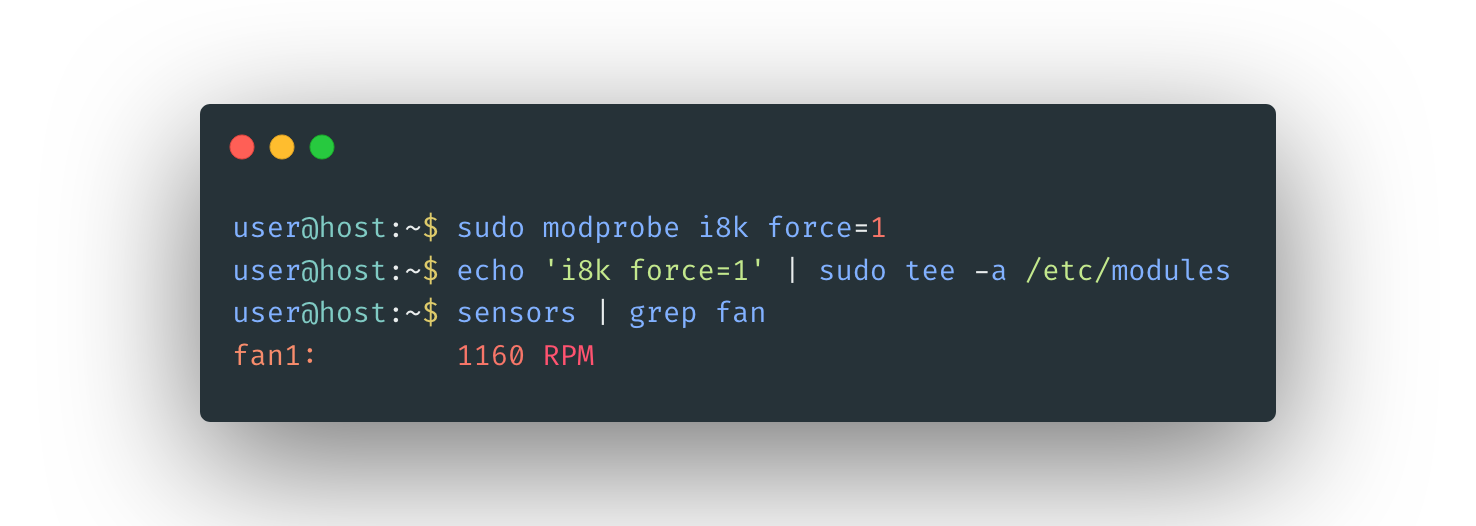
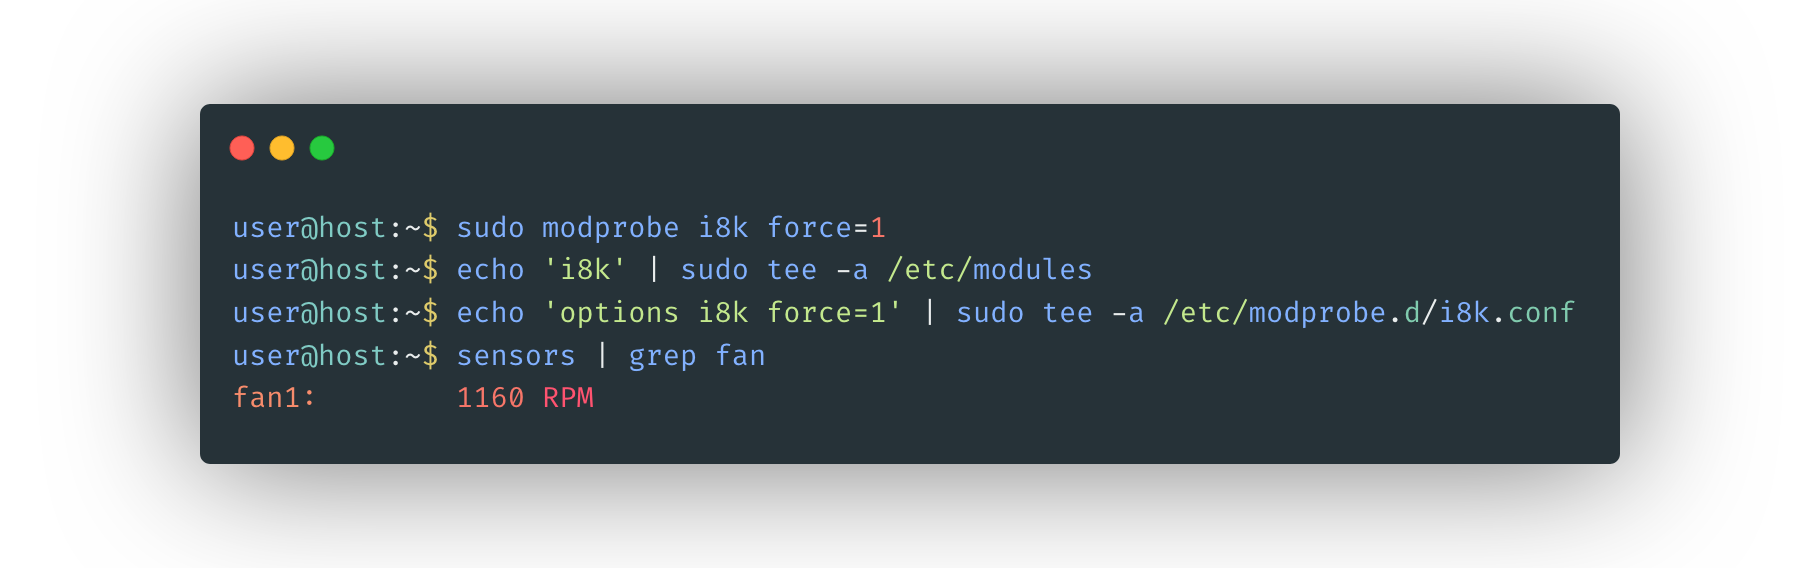
post/optiplex-fan: fix persistent i8k module config

Changed region(s): [[0.0935, 0.0913, 0.935, 0.943]]

diff --git a/content/posts/dell-optiplex-3070-5070-7070-linux-fan-speed/index.md b/content/posts/dell-optiplex-3070-5070-7070-linux-fan-speed/index.md
@@ -21,7 +21,7 @@ authors:
   - tigattack
 series: {}
 featuredImage: images/header.png
-lastmod: 2023-05-11T10:04:41.786Z
+lastmod: 2023-05-13T22:54:51.589Z
 ---
 
 {{< toc >}}
@@ -57,8 +57,13 @@ I also strongly suggest running `sudo sensors-detect`. The default choices from 
 
 For one-time usage, simply run this: `sudo modprobe i8k force=1`
 
-To always load the driver at boot time, add `i8k force=1` to `/etc/modules` and reboot to see the change.  
-You can do this simply like so: `echo 'i8k force=1' | sudo tee -a /etc/modules`
+If you wish to always load the driver at boot time, here's how:
+  1. `echo 'i8k' | sudo tee -a /etc/modules`  
+  By adding the line `i8k` to `/etc/modules`, we instruct the system to load the module at boot time.
+  1. `echo 'options i8k force=1' | sudo tee -a /etc/modprobe.d/i8k.conf`  
+  By adding the line `options i8k force=1` to `/etc/modprobe.d/i8k.conf`, we instruct the system which options to use when loading the module.  
+  You can name this whatever you like as long as it has a `.conf` extension.
+  1. Reboot to see the change.
 
 You will now be able to view the fan speed with `sensors`.
 
